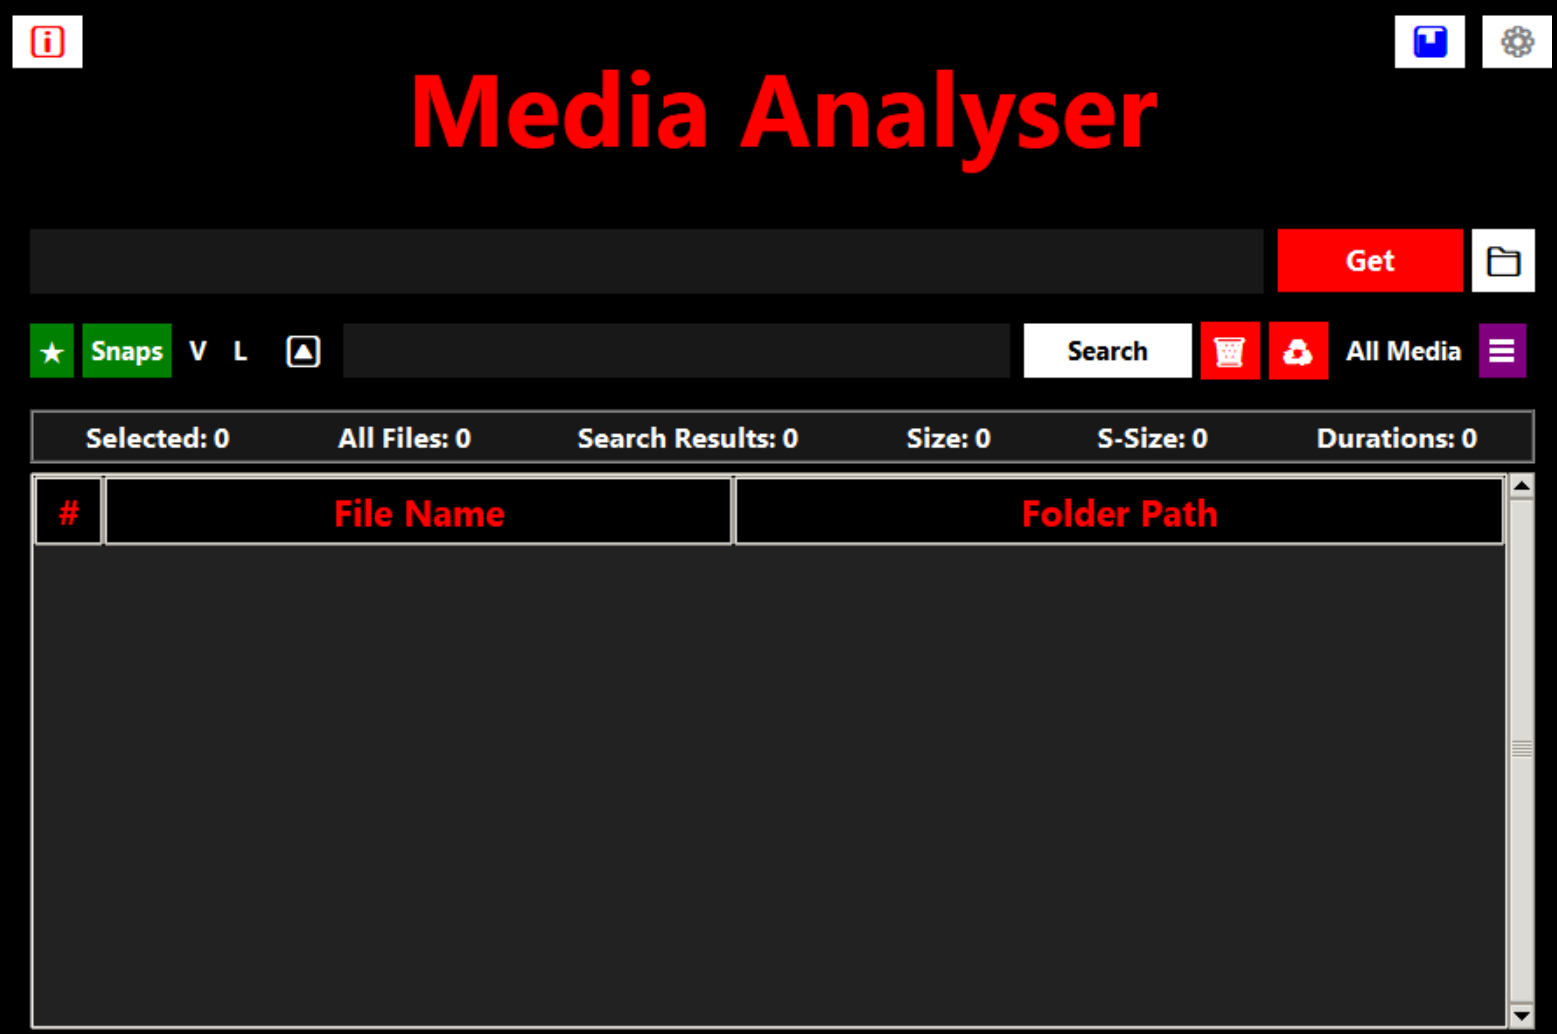
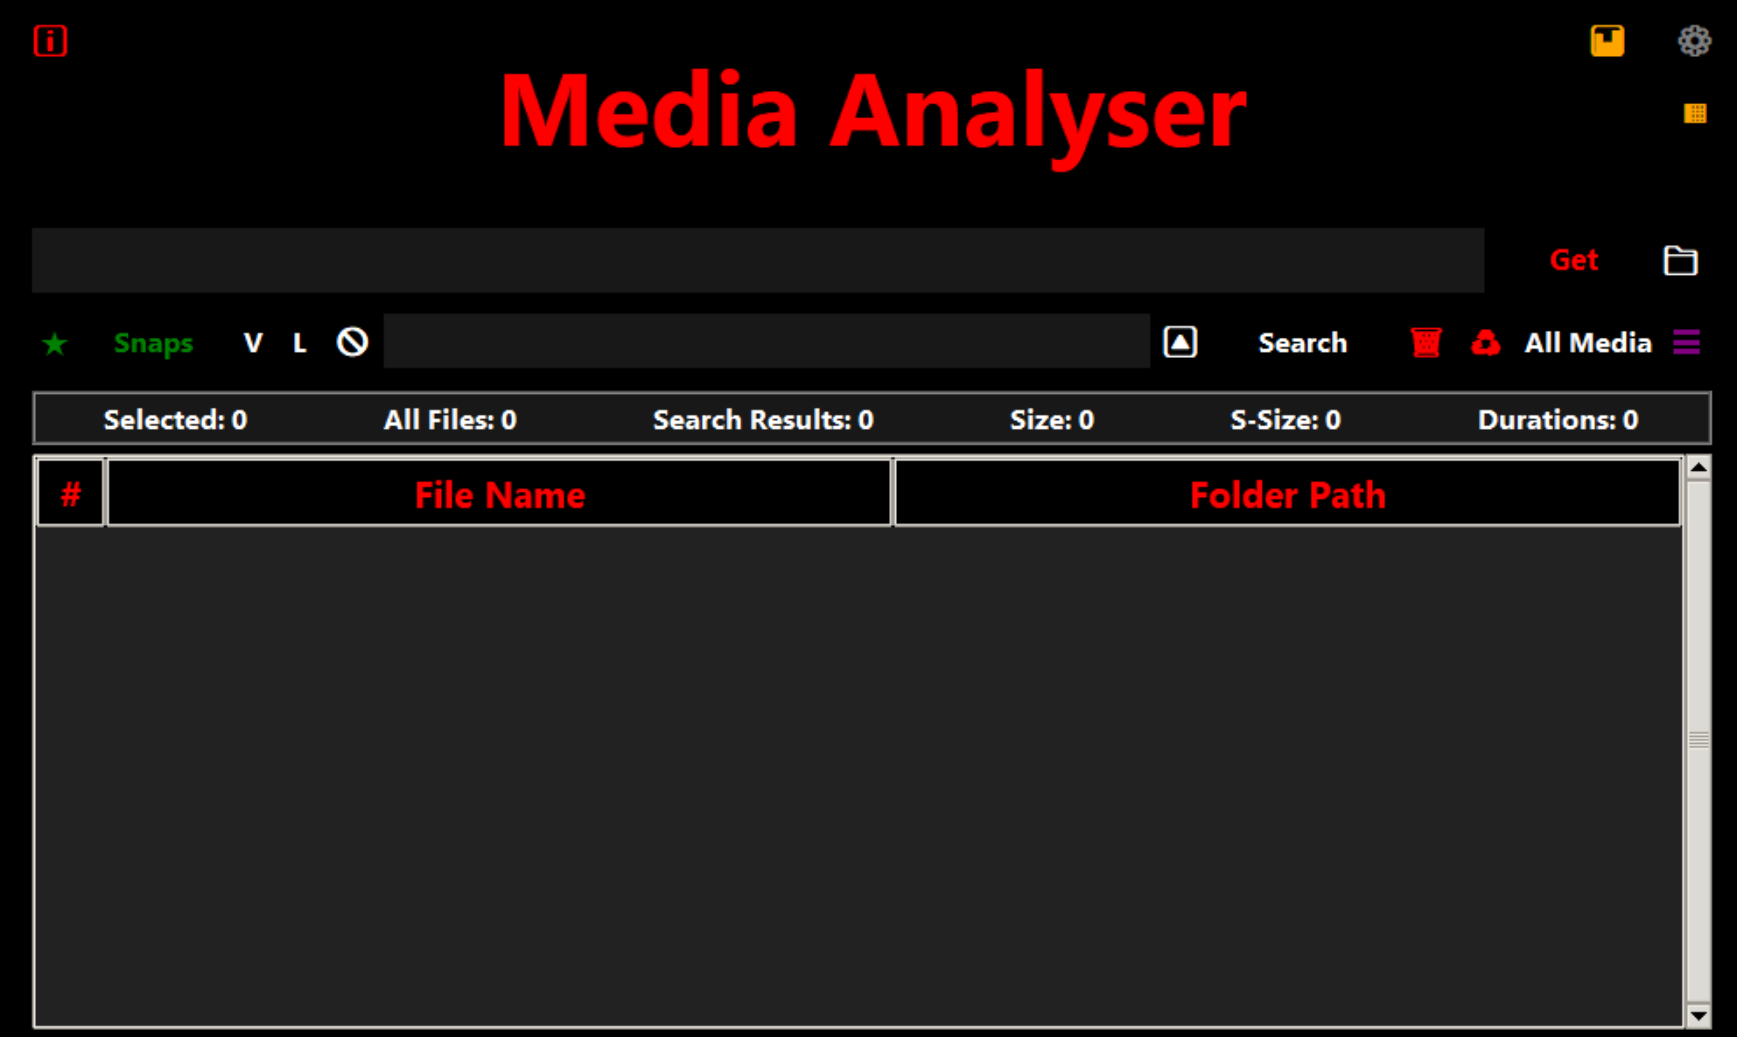
Updated Screens and Readme

diff --git a/Readme.md b/Readme.md
@@ -10,6 +10,8 @@ Supported video formats include: **avi, mp4, mkv, m4v, mov, webm, wmv, flv**.
 
 For full details, advanced features, keyboard shortcuts, troubleshooting, and contributing guidelines, please see the [Documentation](Documentations/documentation.md).
 
+Download the zip from the tags for stable version.
+
 ---
 
 ## Installation
@@ -33,6 +35,8 @@ For full details, advanced features, keyboard shortcuts, troubleshooting, and co
    This application uses `python-vlc`, which requires the VLC Media Player and its libraries to be installed on your system.  
    **Download and install VLC from:** [https://www.videolan.org/vlc/](https://www.videolan.org/vlc/)  
    > Without VLC installed, video playback will not work.
+
+5. **FFmpeg Requirement**: Some features (video trimming, vertical/horizontal detection) require [FFmpeg](https://ffmpeg.org/download.html) to be installed and available in your system PATH.
 ---
 ## Screenshots
 ![Media Player](Screenshots/Current_Main_Screen.png)
@@ -83,9 +87,13 @@ These dashboards help you understand your viewing habits, spot trends, and manag
 - **Playback Controls:** Play, pause, stop, fast-forward, rewind, and adjust volume.
 - **Watch History:** Automatically logs watched videos and durations.
 - **Favorites:** Save and quickly access your favorite media files.
+- **Category Management:** Organize files into custom categories.
+- **Notes & Descriptions:** Add notes and descriptions to media files.
+- **Video Trimming:** Clip favorite segments from videos (requires FFmpeg).
 - **Image Viewing:** View screenshots taken during playback.
 - **File Management:** Move or mark files for deletion directly from the app.
 - **Session Statistics:** View and export watch statistics for your sessions.
+- **Dashboard:** Visualize media consumption statistics.
 
 ---
 
@@ -130,6 +138,21 @@ This also ensures the current directory is set correctly for relative paths:
 
 3. Double-click the batch file to launch the app.
 4. This way you can use this program as an executable.
+
+## Project Structure
+
+- **Documentations/**: Contains detailed documentation and usage guides.
+- **Screenshots/**: Example screenshots for UI and dashboard features.
+- **gui_main.py**: Launches the main graphical interface.
+- **main.py**: Command-line mode (legacy).
+- **videoplayer.py**: Handles video playback and controls.
+- **file_loader.py**: Loads and indexes media files.
+- **category_manager.py**: Organizes files into categories.
+- **notes_manager.py**: Manages notes and descriptions for media.
+- **snippets_manager.py**: Supports video trimming and snippet management.
+- **image_player.py**: Displays screenshots and images.
+- **player_constants.py**: Stores configuration settings and constants.
+- **requirements.txt**: Lists required Python packages.
 
 ## More Information
 
